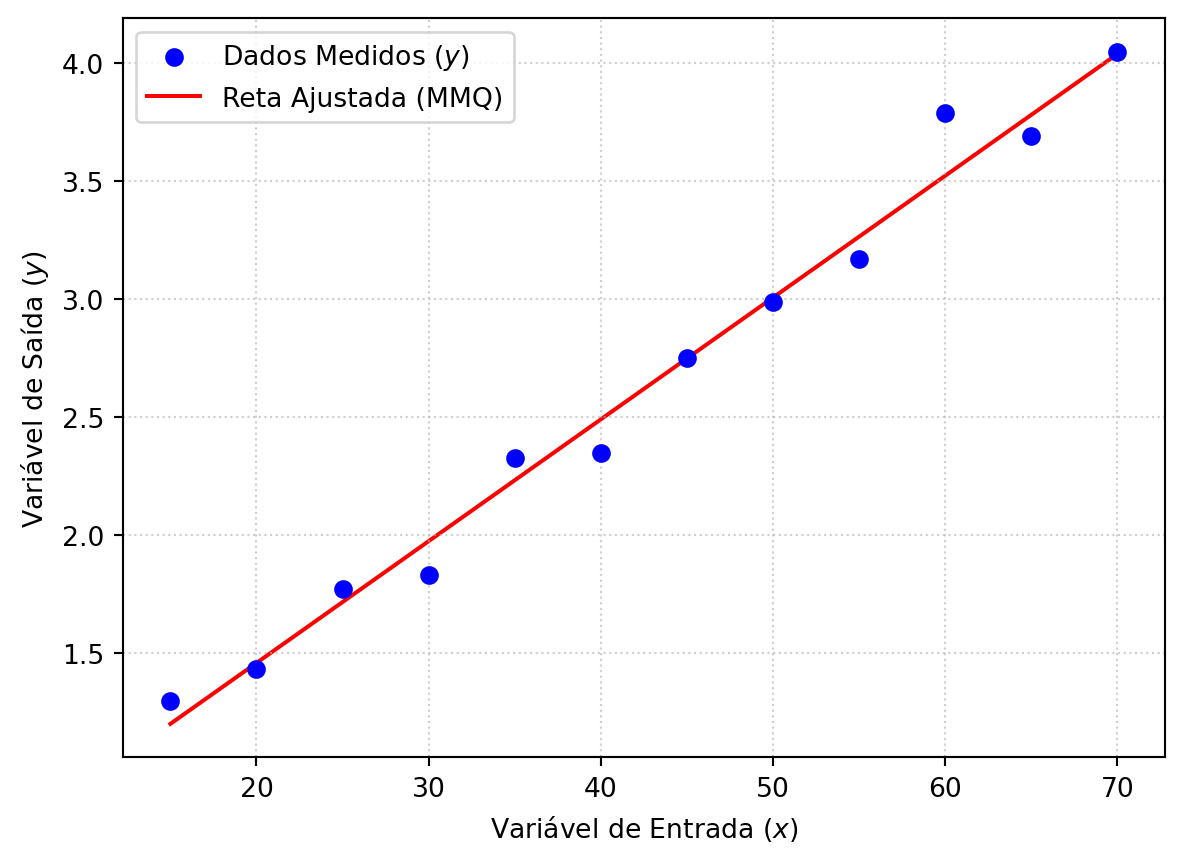
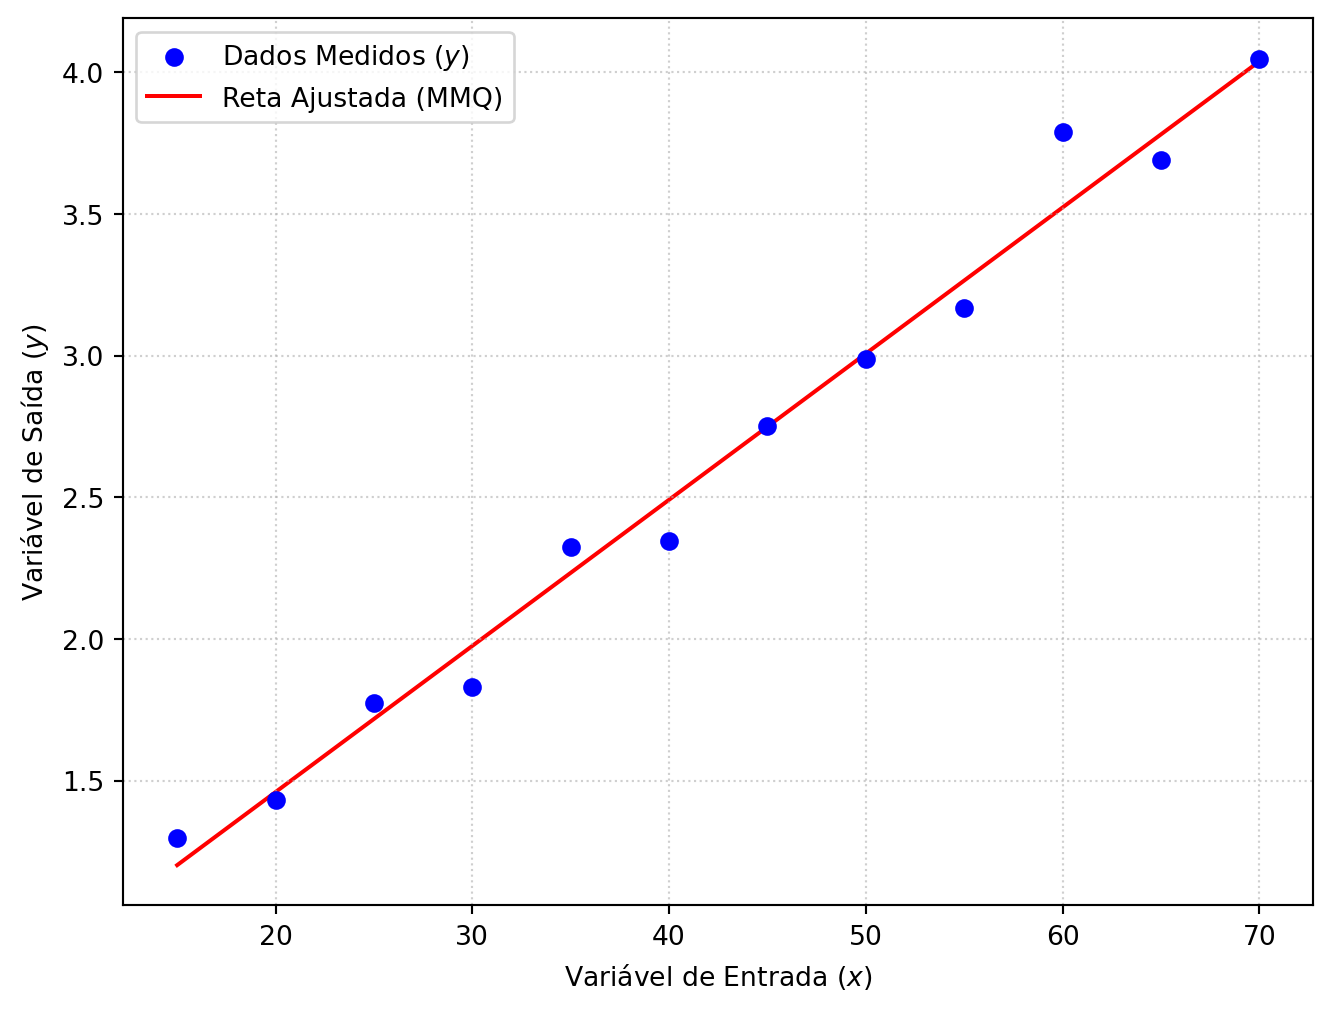
Built site for gh-pages

diff --git a/Identificacao/Ident01AjusteReta.html b/Identificacao/Ident01AjusteReta.html
@@ -214,7 +214,7 @@ Prof.&nbsp;Dr.&nbsp;Raphael Teixeira
 <ul>
 <li><strong>Calibração:</strong> - Sensor de temperatura: <span class="math inline">\(n\)</span> amostras e gráfico de dispersão:</li>
 </ul>
-<div id="952b1b57" class="cell" data-execution_count="1">
+<div id="aecfd885" class="cell" data-execution_count="1">
 <div class="cell-output cell-output-display">
 <div>
 <figure>
@@ -290,7 +290,7 @@ x_n &amp; 1
 <section id="observação-dos-erros-resíduos" class="slide level2">
 <h2>Observação dos Erros (Resíduos)</h2>
 <p>Erros são a distância vertical entre os pontos medidos e a reta do modelo.</p>
-<div id="a1079c19" class="cell" data-execution_count="2">
+<div id="2fe985fe" class="cell" data-execution_count="2">
 <div class="cell-output cell-output-display">
 <div>
 <figure>
@@ -317,7 +317,7 @@ x_n &amp; 1
 <h3 id="função-de-custo-1">Função de Custo</h3>
 <p>Para cada escolha de parâmetros <span class="math inline">\(\boldsymbol{\theta} = [\theta_0, \theta_1]^T\)</span>, calcula-se o valor da função de custo <span class="math inline">\(J(\boldsymbol{\theta})\)</span>.</p>
 <p>Alguns exemplos de retas com diferentes parâmetros e seus respectivos erros:</p>
-<div id="dad2e58a" class="cell" data-execution_count="3">
+<div id="c4ff46ca" class="cell" data-execution_count="3">
 <div class="cell-output cell-output-display">
 <div>
 <figure>
@@ -339,7 +339,7 @@ x_n &amp; 1
 <section id="solução-python-dos-mínimos-quadrados" class="slide level2">
 <h2>Solução Python dos Mínimos Quadrados</h2>
 <p>Em python os dados podem ser gerados como:</p>
-<div id="1b119e2d" class="cell" data-execution_count="4">
+<div id="790a4bf0" class="cell" data-execution_count="4">
 <div class="code-copy-outer-scaffold"><div class="sourceCode cell-code" id="cb1"><pre class="sourceCode numberSource python number-lines code-with-copy"><code class="sourceCode python"><span id="cb1-1"><a></a><span class="im">import</span> numpy <span class="im">as</span> np</span>
 <span id="cb1-2"><a></a></span>
 <span id="cb1-3"><a></a><span class="co"># Dados Gerados:</span></span>
@@ -352,8 +352,8 @@ x_n &amp; 1
 <section class="slide level2">
 
 <p>A matriz de regressores <span class="math inline">\(\mathbf{A}\)</span> é construída como:</p>
-<div id="d4fb2fa0" class="cell" data-execution_count="5">
-<div class="code-copy-outer-scaffold"><div class="sourceCode cell-code" id="cb2"><pre class="sourceCode numberSource python number-lines code-with-copy"><code class="sourceCode python"><span id="cb2-1"><a></a><span class="co"># Forma correta: n linhas e 2 colunas</span></span>
+<div id="4f735342" class="cell" data-execution_count="5">
+<div class="code-copy-outer-scaffold"><div class="sourceCode cell-code" id="cb2"><pre class="sourceCode numberSource python number-lines code-with-copy"><code class="sourceCode python"><span id="cb2-1"><a></a><span class="co"># Matriz de regressão: n linhas e 2 colunas</span></span>
 <span id="cb2-2"><a></a>A <span class="op">=</span> np.column_stack((np.ones(n), x))</span>
 <span id="cb2-3"><a></a><span class="bu">print</span>(A) <span class="co"># Mostra as 3 primeiras linhas</span></span></code></pre></div><button title="Copy to Clipboard" class="code-copy-button"><i class="bi"></i></button></div>
 <div class="cell-output cell-output-stdout">
@@ -371,11 +371,8 @@ x_n &amp; 1
  [ 1. 70.]]</code></pre>
 </div>
 </div>
-</section>
-<section class="slide level2">
-
 <p>Estimação de parâmetros por mínimos quadrados:</p>
-<div id="fa220b6b" class="cell" data-execution_count="6">
+<div id="c7e3c035" class="cell" data-execution_count="6">
 <div class="code-copy-outer-scaffold"><div class="sourceCode cell-code" id="cb4"><pre class="sourceCode numberSource python number-lines code-with-copy"><code class="sourceCode python"><span id="cb4-1"><a></a><span class="co"># Estimativa via Equação Normal: theta = (A'A)^-1 A'y</span></span>
 <span id="cb4-2"><a></a>theta <span class="op">=</span> np.linalg.inv(A.T <span class="op">@</span> A) <span class="op">@</span> A.T <span class="op">@</span> y</span>
 <span id="cb4-3"><a></a></span>
@@ -386,12 +383,15 @@ x_n &amp; 1
 Inclinação (theta1): 0.0516</code></pre>
 </div>
 </div>
+</section>
+<section class="slide level2">
+
 <p>O grafico comparativo:</p>
-<div id="5d52f107" class="cell" data-execution_count="7">
+<div id="b8b66660" class="cell" data-execution_count="7">
 <div class="cell-output cell-output-display">
 <div>
 <figure>
-<p><img data-src="Ident01AjusteReta_files/figure-revealjs/cell-8-output-1.png" width="592" height="431"></p>
+<p><img data-src="Ident01AjusteReta_files/figure-revealjs/cell-8-output-1.png" width="666" height="505"></p>
 </figure>
 </div>
 </div>
